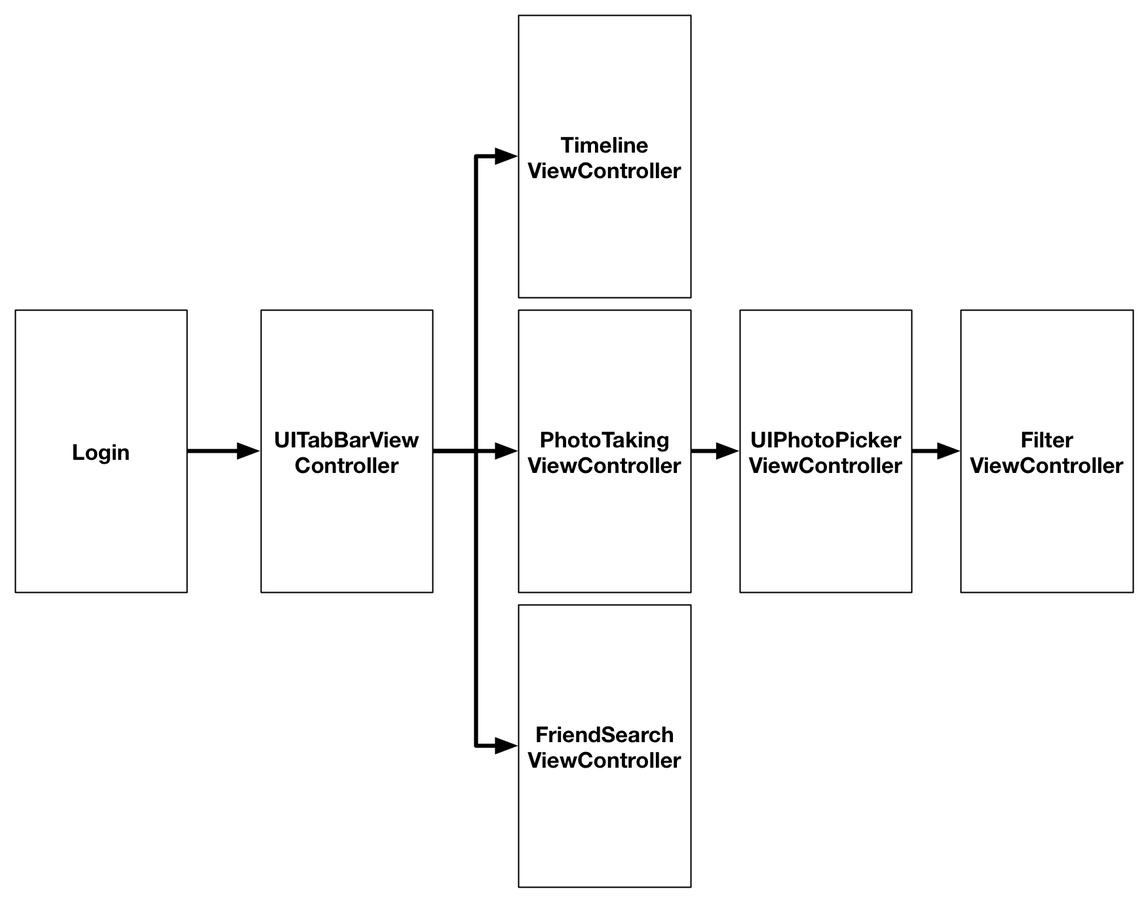
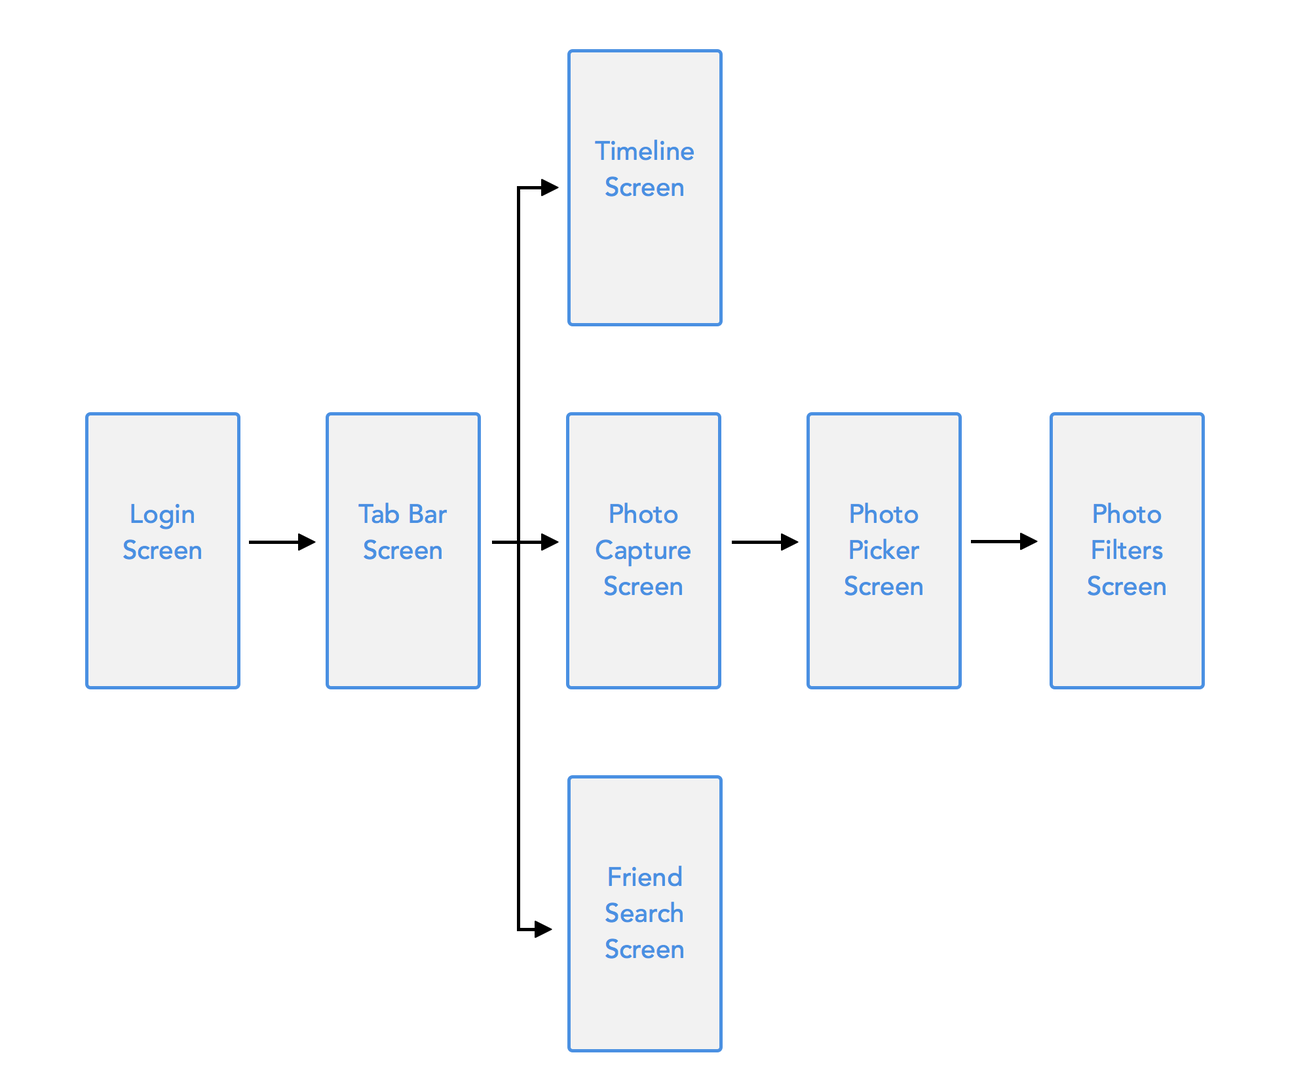
P0 to P6 Curriculum Revisions
* P0 to P5: very minor changes
* P6: moderate changes (moved content around, added content)

Changed region(s): [[0.0616, 0.0312, 1.0, 0.9993], [0.8014, 0.6245, 0.9247, 0.6558]]

diff --git a/P6-Setup-App-Structure/content.md b/P6-Setup-App-Structure/content.md
@@ -1,63 +1,69 @@
 ---
-title: "Setting up the App Structure With a UITabBarController"
+title: "Setting up the App Structure"
 slug: setup-app-structure-uitabbarcontroller
 ---
 
-In this section we're going to set up the basic structure of our app. While building the *Make School Notes* app, you have learnt about *Container View Controllers*.
-
-Just as a short reminder: Container View Controllers are View Controllers that can present other View Controllers. Most apps have at least one such a Container View Controller. In *Make School Notes* we used a `UINavigationController` as container. It allowed us to *push* and *pop* View Controllers.
-
-iOS provides another very popular Container View Controller: the `UITabBarController`. Using a `UINavigationController` the user typically navigates between different View Controllers by selecting items from `UITableView`s, such as Apple's *Mail* app, or as in *Make School Notes*.
-
-Using a `UITabBarController`, the user switches between different View Controllers by selecting one of the Tab Bar Items in a Tab Bar. Below is a screenshot from the finished *Makestagram* app that contains a Tab Bar:
-![image](tab_bar_example.png)
-
-The user can switch between the timeline, taking a photo, or finding friends, by selecting the respective button from the Tab Bar.
-
-Many apps use multiple types of Container View Controllers in one App. We will see how that approach works when we add the image filter feature to the *Makestagram* app later on.
-
-#The App Structure
-
-One of the first steps, once you have collected all the features you want to be part of your app, should be drawing an outline of the different screens that your app will contain. This outline should include connections between the different screens.
-
-For *Makestagram* I've created this overview, that breaks down the entire app into View Controllers:
+Once you have decided on your app's features, your next step should be to outline your apps structure. The outline should contain all the screens in your app, and should include how they will be connected. For **Makestagram**, the outline would look like this:
 
 ![image](app_structure.png)
 
-I highly recommend you come up with a similar diagram before writing code for your original app - it will give you a very good idea of how much effort it will take to build your app. With this overview at hand, let's dive into the action of creating a bunch of these View Controllers.
+You should come up with a similar diagram before writing code for your original app - it will give you a better idea of how much effort it will take to build your app.
 
-#Setting the UITabBarController up
+#Another Container View Controller: The UITabBarController
 
-As mentioned earlier, we will skip the login screen for now. That means that the `UITabBarController` is the first View Controller we need to add to our app. We also want the Tab Bar Controller to be the initial View Controller of our app.
+In this section, we're going to set up the basic structure of our app, starting with a *container view controller*, a view controller that can present other view controllers.
 
-The Xcode project template has a simple `UIViewController` as its initial View Controller.
-Let's first go ahead and delete it.
+In **Make School Notes** we  used a `UINavigationController` as our container view controller, which allowed us to drill down on content by *pushing* and *popping* view controllers.
+
+In **Makestagram**, we will be using another popular container view controller called the `UITabBarController`. The `UITabBarController` contains a *tab bar* and *tab bar items*. Each tab bar item is connected to a specifc view controller, tapping a tab bar item displays the appropriate view controller.  Below is a screenshot from the finished **Makestagram** app that contains a tab bar (the tab bar is enclosed by a red rectangle) and three tab bar items (home, camera, friends):
+
+![image](tab_bar_example.png)
+
+By selecting the appropriate tab bar item, a user can switch between the Timeline Screen, Photo Capture Screen, and Friends Search Screen.
+
+It is common to see multiple types of container view controllers in a single app - we will explore this idea when adding the image filter feature to **Makestagram** later on.
+
+#Setting Up the UITabBarController
+
+Since we won't be adding the login screen until later, the first screen we need to setup is our Tab Bar Screen.
+
+The **Makestagram** project template that you downloaded earlier currently has one screen, a simple `UIViewController`. We don't need that screen, so let's go ahead and delete it.
 
 > [action]
-Open *Main.storyboard*. Select the existing View Controller; after you have selected it you should see a blue border surrounding it:
+Open *Main.storyboard*. Select the existing view controller; after you have selected it you should see a blue border surrounding it:
 ![image](selected_vc.png)
 >
-Hit the *delete* key to remove this View Controller. Now you should see a blank Storyboard:
+Hit the *delete* key to remove this view controller. Now you should see a blank storyboard:
 ![image](blank_storyboard.png)
+
+Let's also delete the screen's accompanying source file called *ViewController.swift*.
+
+
+> [action]
+Delete the *ViewController.swift* file:
+![image](delete_vc.png)
+![image](delete_vc_trash.png)
 
 Now we can add the `UITabBarController`.
 
 > [action]
-Drag the `UITabBarController` from the component library into the Storyboard:
+Drag the `UITabBarController` from the component library into the storyboard:
 ![image](add_tab_bar.png)
 
-Now we have set up the Container View Controller for our app - time to run it?
+We have now set up the container view controller for our app - time to run it?
 
-If you run the app now, you will see a blank, black screen, after the splash image disappears. You will also see the following error in the console:
+If you run the app now, after the splash image disappears, you will see a blank black screen. You will also see the following error in the console:
 
 > Makestagram[76593:9371786] Failed to instantiate the default view controller for UIMainStoryboardFile 'Main' - perhaps the designated entry point is not set?
 
-**Why are you seeing this error?**
+**Why Are We Seeing This Error?**
 
-Every app needs to define an *initial View Controller*. Our app doesn't have one right now - we have deleted the default View Controller, and haven't set the Tab Bar Controller as the initial one. Let's fix that.
+When working with storyboards, we have to designate an entry point, or more simply, we have to tell UIKit (the Apple framwork which handles manipulating the user interface) what view controller should appear first (we call this view controller the *Initial View Controller*). When the compiler doesn't know which view controller to show first (a.k.a. when the entry point is not set), it defaults to showing an empty black screen.
+
+We are seeing this error because the `UIViewController` that we initially deleted from the project was set as the Initial View Controller, and after deleting it, we never set another view controller to be the new Initial View Controller. Let's fix this error by assigning our tab bar controller as the Initial View Controller.
 
 > [action]
-Configure the Tab Bar Controller to be our app's initial View Controller. First select the *Attributes Inspector* in the right bar (1). Then check the *is Initial View Controller* checkbox (2). As a confirmation you should see an arrow pointing to the Tab Bar View Controller (3):
+Configure the tab bar controller to be our app's Initial View Controller. First select the *Attributes Inspector* in the right bar (1). Then check the *is Initial View Controller* checkbox (2). As a confirmation you should see an arrow pointing to the Tab Bar View Controller (3):
 ![image](initial_vc.png)
 
 Great! When you run the app now, you should see a tab bar with two items:
@@ -65,25 +71,25 @@ Great! When you run the app now, you should see a tab bar with two items:
 
 #Adding a Third View Controller to the Tab Bar
 
-The default Tab Bar comes with two View Controllers. Our outline shows that we need three View Controllers in the Tab Bar for *Makestagram*. Let's add that third View Controller.
+The default tab bar comes with two view controllers; however, we need three view controllers for **Makestagram**. Lets add the third view controller now.
 
 > [action]
-Add a third View Controller, as shown in the video below. Note that the key you need to hold down is the *control* key which has the following symbol: ⌃
+Add a third view controller, as shown in the video below. Note that the key you need to hold down is the *control* key which has the following symbol: ⌃
 <video width="100%" controls>
   <source src="https://s3.amazonaws.com/mgwu-misc/SA2015/AddViewController_TabBar_Small.mov" type="video/mp4">
 </video>
 
-Now we have all required View Controllers set up.
+We now have all of the required view controllers set up!
 
 #Decorating the Tab Bar Items
 
-The empty Tab Bar looks pretty sad - let's add an image to each Tab Bar Item. That will also make it easier to identify the different tabs.
-
-Currently the Tab Bar has three entries and looks like this:
+Currently the tab bar has three entries and looks like this:
 
 ![image](tab_bar.png)
 
-Each of these three entries is called a *Tab Bar Item*. Every View Controller that has a relationship to a Tab Bar View Controller owns one such a *Tab Bar Item*. The Tab Bar Items are named rather generically right now (*Item 1*, *Item 2*, etc.). Instead of names, we will use icons to decorate our *Tab Bar Items*.
+<!-- Every View Controller that has a relationship to a Tab Bar View Controller owns one such a *Tab Bar Item*. The Tab Bar Items are named rather generically right now (*Item 1*, *Item 2*, etc.). Instead of names, we will use icons to decorate our *Tab Bar Items*. -->
+
+The empty tab bar looks pretty bad, so let's add an image to each tab bar item to make things look nicer. (Images will also have the benefit of making it easier to identify the different tabs.)
 
 > [action]
 [Download the art pack for this tutorial!](https://s3.amazonaws.com/mgwu-misc/SA2015/Makestagram_Art.zip)
@@ -91,9 +97,10 @@ Each of these three entries is called a *Tab Bar Item*. Every View Controller th
 ##Adding Assets to an App
 
 Now it's time to add some of these assets you just downloaded to our app. All assets used within an iOS app are stored in *Asset catalogs*. Every iOS projects that you create with Xcode comes with one default asset catalog called *Images.xcassets*:
+
 ![image](asset_catalog.png)
 
-That asset catalog contains one resource for the App's icon. You add new resources to your app by creating new entries in this asset catalog. You can also create multiple asset catalogs which is useful for apps with huge amounts of images.
+That asset catalog contains one resource for the App's icon. You add new resources to your app by creating new entries (called *Image Sets*) in this asset catalog. You can also create multiple asset catalogs which is useful for apps with huge amounts of images.
 
 Let's add our first images to our app!
 > [action]
@@ -107,11 +114,11 @@ Repeat these steps for the *Home* and *People* assets, so that all Tab Bar Item 
 
 Let's briefly discuss some important concepts about asset handling on iOS. You probably have realized that we're providing three different image files for each asset we wanted to use in our App (*@1x*, *@2x* and *@3x*). These different images have different resolutions, each suited to a specific type of iOS devices with a different screen resolution. The *@1x* assets are used for the oldest iOS devices, e.g. iPhone 3Gs, which don't have retina displays. The *@2x* images are used for the 3.5 and 4 inch retina screens of the iPhone 4(S) and iPhone 5(S). Finally, the *@3x* images are used by the iPhone 6 and iPhone 6 Plus. In most cases you won't have to spend too much time thinking about this, as long as you provide assets in all relevant resolutions.
 
-You should also note that we don't reference images in asset catalogs by their file name, but instead by the name of the *Image Set* they belong to. In our example our assets are called *Camera*, *People* and *Home*.
+You should also note that we don't reference images in asset catalogs by their file name, but instead by the name of their Image Set. In our example, our image sets are called *camera*, *people* and *home*.
 
 ##Assigning Images to Tab Bar Items
 
-We've added assets to our app; now we can assign them to our Tab Bar Items.
+Now that we have added images to our app, we can assign them to our tab bar items.
 
 When we're done, the Tab Bar should look like this:
 
@@ -126,27 +133,27 @@ Let's set the images up!
 2. Select the View Controller's Tab Bar Item
 3. Open the *Attributes Inspector* in the right panel
 4. Erase the Item *Title*
-5. Set the Item *Image* to *Home*, *Camera* or *People*, depending on which View Controller you are currently setting up
+5. Set the Item *Image* to *home*, *camera* or *people*, depending on which View Controller you are currently setting up
 >
 ![image](setup_tab_bar_item.png)
 
-Now we have images on each Tab Bar item - but something doesn't look quite right. The images aren't vertically centered. That's because iOS reserves some space below the image for the *Title* of the Tab Bar Item. For *Makestagram* we don't need titles, instead we want the images to be centered. We can accomplish that by adjusting the *Image Inset* for each Tab Bar Item.
+Now we have images on each Tab Bar item - but something doesn't look quite right. The images aren't vertically centered. That's because iOS reserves some space below the image for the *Title* of the Tab Bar Item. For **Makestagram** we don't need titles, instead we want the images to be centered. We can accomplish that by adjusting the *Image Inset* for each Tab Bar Item.
 
 > [action]
-**Repeat the following steps for all three View Controllers**:
+**Repeat the following steps for all three view controllers**:
 >
-1. With the Tab Bar Item selected, open the *Size Inspector* on the right panel
+1. With the tab bar item selected, open the *Size Inspector* on the right panel
 2. Set the *Image Insets* as following:
       - *Top*: 5
       - *Bottom*: -5
 >
 ![image](tab_bar_item_insets.png)
 
-Now all of your Tab Bar Items should have images that are nicely centered.
+Now all of your tab bar items should have images that are nicely centered.
 
 ##Reordering Tab Bar Items
 
-Just in case you didn't set up the View Controllers in the correct order, I want to show you how you can reorder them. Select the Tab Bar View Controller in Storyboard, then simply drag the Tab Bar Items to rearrange them:
+Just in case you didn't set up the view controllers in the correct order, I want to show you how you can reorder them. Select the tab bar view controller in your storyboard, then simply drag the tab bar items to rearrange them:
 
 <video width="100%" controls>
   <source src="https://s3.amazonaws.com/mgwu-misc/SA2015/ReorderTabBarItems_small.mov" type="video/mp4">
@@ -156,15 +163,7 @@ Now we have a nice looking Tab Bar that connects to the three View Controllers o
 
 #Creating Classes for our View Controllers
 
-To complete this whole scaffolding section, let's create the Source Code Files for all three View Controllers that we will be working on throughout this tutorial.
-
-As a very first step, let's delete View Controller that is part of the template project:
-> [action]
-Delete the *ViewController.swift* file:
-![image](delete_vc.png)
-![image](delete_vc_trash.png)
-
-Now we can create the three View Controllers for this project. We'll add them to the  *ViewControllers* group to keep this project nicely structured.
+To finish this section, let's create the Source Code Files for all three View Controllers that we will be working on throughout this tutorial. We'll add them to the  *ViewControllers* group to keep this project nicely structured.
 
 > [action]
 Create the `TimelineViewController` class as a subclass of `UIViewController` as shown in the video below:
@@ -194,6 +193,6 @@ The last setup step that remains, is connecting the classes that we just created
 
 #Wrapping up
 
-Now we have set up the basic structure of our App! You should have three Tab Bar Items with Icons, connected to three View Controllers in Storyboard, each backed by a corresponding Source Code file.
+Congratulations! We have now set up the basic structure of **Makestagram**! You should have three tab bar items with icons, connected to three view controllers in your storyboard, each backed by a corresponding Swift file.
 
 We're ready to implement our first Feature: **Uploading photos!**

diff --git a/P5-Connecting-to-Parse/content.md b/P5-Connecting-to-Parse/content.md
@@ -11,7 +11,7 @@ To set up the Parse SDK we will first need to answer the following question: *Wh
 
 #Configuring the SDK on App Launch
 
-Every iOS project gets created with class called `AppDelegate`. This class has multiple methods that get called when our App starts, is put in the background or is closed. Whenever we want to respond to such *lifecycle* events, the `AppDelegate` is the right place to add our code. If you open the *AppDelegate.swift* file, that is part of the *Makestagram* project, you will see the different methods that are part of the `AppDelegate`. Apple also provides some helpful comments about the responsibilities of each method. For now, we are mainly interested in the following method:
+Every iOS project gets created with a class called `AppDelegate`. This class has methods that get called when our app is started, put into the background, or closed. These actions (starting, going into the background, and closing), are referred to as *lifecycle* events.  Whenever we want to respond to such events, the `AppDelegate` is the right place to add our code. If you open the *AppDelegate.swift* file, which is part of the *Makestagram* project, you will see the different lifecycle methods. If you are curious about the responsibilities of each of these methods, checkout this Apple [documentation](https://developer.apple.com/library/ios/documentation/iPhone/Conceptual/iPhoneOSProgrammingGuide/TheAppLifeCycle/TheAppLifeCycle.html). For now, we are mainly interested in the following method:
 
     func application(application: UIApplication, didFinishLaunchingWithOptions launchOptions: [NSObject: AnyObject]?) -> Bool {
       // Override point for customization after application launch.
@@ -19,7 +19,7 @@ Every iOS project gets created with class called `AppDelegate`. This class has m
       return true
     }
 
-This is the method that is called as soon as our App starts. Here we need to add the code to configure the Parse SDK. The SDK can be configured with one simple method call.
+This method is called as soon as our app starts - this is where we need to add the code to configure the Parse SDK. The SDK can be configured with one simple method call.
 
 > [action]
 Add an import statement (`import Parse`) to import the Parse SDK into the `AppDelegate`. Then add a method call to `Parse.setApplicationID` into the `application(application:didFinishLaunchingWithOptions:launchOptions:)` method. The result should look like this:
@@ -65,9 +65,7 @@ Now we should be ready to work with Parse SDK! In a moment we will see if you've
 
 All features in *Makestagram*, e.g. posting photos, following friends, etc. will require a logged in user. This means that before we can start building our actual app, we need a way for a user to log in.
 
-I however don't want to start this tutorial with building a login screen. For now we should provide a fake login mechanism so that we can start working on the core features of the app.
-
-Later in this tutorial we will spend some time building a full login mechanism, including login with a Facebook account.
+For now, we are going to provide a fake login mechanism so that we can start working on the core features of the app. (Later in this tutorial we will spend some time building a full login mechanism, including login with a Facebook account.)
 
 Implementing a fake login mechanism involves two steps:
 
@@ -91,8 +89,8 @@ Extend the `AppDelegate` to log in with our test credentials. We'll also add an 
 >
       PFUser.logInWithUsername("test", password: "test")
 >
-      if let user = PFUser.currentUser() {
-        println("Log in successful")
+      if let currentUser = PFUser.currentUser() {
+        println("\(currentUser.username!) logged in successfully")
       } else {
         println("No logged in user :(")
       }

diff --git a/P2-Data-Model/content.md b/P2-Data-Model/content.md
@@ -19,11 +19,9 @@ This is the detailed list of features our app will have:
 
 You know most of the features from popular social network apps. You might wonder why include *flagging* content in this simple photo sharing app. We include it, because it's an important feature to get your app into Apple's App Store. Apple requires apps with user created content to have a *flag* feature - this way users can report inappropriate content. Since you will likely need this feature in your original app, we have included it as part of the tutorial.
 
-Through building this app you will learn how to use Parse and many iOS features to build a rather complex application. That will enable you to build your own apps when you have completed the tutorial.
-
 #Finding the Classes in Our App
 
-Now that we know which features our app will have, how can we derive a data model?
+Now that we know which features our app will have, how can we build a data model?
 
 Typically the first step in defining a data model is finding different classes that are involved in our features.
 
@@ -75,7 +73,7 @@ The diagram above illustrates the different classes, their most important proper
 Let's discuss them briefly:
 
 - **User**
-A new *User* class is created whenever a user signs up. The *username* will store the user's display name: this name is used to log in and it displayed in the app when the user creates posts or likes other posts.
+A new *User* class is created whenever a user signs up. The *username* will store the user's display name: this name is used to log in and is displayed in the app when the user creates posts or likes other posts.
 
 - **Post**
 A *Post* class is created whenever a user posts a new photo. The most important properties of a post are the *user* it belongs to and the *imageFile* stored along with the post.
@@ -84,7 +82,7 @@ A *Post* class is created whenever a user posts a new photo. The most important 
 Marks which posts have been flagged. It stores a reference to the *post* that is flagged and the *user* that has flagged it.
 
 - **Like**
-Works just as *FlaggedContent*; stores a reference to the *post* that is like and the *user* that has liked it.
+Works just as *FlaggedContent*; stores a reference to the *post* that is liked and the *user* that has liked it.
 
 - **Follow**
 Stores a following relationship between two users. The *toUser* field stores the user being followed, the *fromUser* user field stores the following user.

diff --git a/P0-Getting-Started/content.md b/P0-Getting-Started/content.md
@@ -5,21 +5,19 @@ slug: getting-started
 
 Throughout this tutorial you will build a photo sharing app that is similar to the popular app  [Instagram](https://instagram.com/). After finishing the *Make School Notes* tutorial you should have a good understanding of the basics of iOS development.
 
-In this tutorial we will touch many advanced iOS development topics and you will also learn how to use [Parse](https://parse.com) to build a backend for your app.
+In this tutorial, we will touch many advanced iOS development topics, including how to use [Parse](https://parse.com) to build a backend for your app.
 
 Here are the most important things you will learn throughout this tutorial:
 
-- How to define a data model for your app using Parse
-- How to implement a login for your app using Parse and Facebook
+- How to define a data model using Parse
+- How to implement a login using Parse and Facebook
 - How to capture photos and upload them to Parse
 - How to perform work in the background to keep your user interface responsive
 - How to build complex Parse queries
 - How to structure a complex iOS app
 - How to use libraries built by other developers to speed up development
 
-We will touch many more topics, but this is an outline of the biggest chunks of skills you will gain through this tutorial.
-
-By the end of it you will have a good understanding of building complex iOS apps that tie into a backend - from there you will be able to move on and create your original iPhone App!
+After finishing the tutorial, you will have a good understanding of building complex iOS apps that tie into a backend - from there you will be able to move on and create your original iPhone App!
 
 Here's a video that will give you a brief overview of what you will be learning:
 

diff --git a/P3-Create-Data-Model-Parse/content.md b/P3-Create-Data-Model-Parse/content.md
@@ -16,7 +16,7 @@ First, select the *Add Class* button on the left hand side to create your first 
 >
 ![image](add_class.png)
 
-Next, you will see a popup that allows you to choose the type of your class. 
+Next, you will see a popup that allows you to choose the type of your class.
 
 > [action]
 Select the *User* class from the dropdown and hit *create Class*:
@@ -74,7 +74,7 @@ Now you should see the new *imageFile* column in the data browser:
 
 Now it's time to add the *user* column. Unlike the *imageFile* column the *user* column is not intended to store actual data - instead it stores a reference (or relationship) to an existing *user* object.
 
-For such use cases Parse provides the *Pointer* column type. A pointer column allows us to store a reference to another Parse object.
+For such use cases, Parse provides the *Pointer* column type. A pointer column allows us to store a reference to another Parse object.
 
 > [action]
 Hit the *+Col* button to create a new column, just as in the step before. Then choose this column to be a *Pointer*. Additionally Parse will ask you *which* class this pointer is pointing to. Choose the *_User* class (the underscore in the class name indicates that this class was generated by Parse). Finally, name the column *user* and hit the *Create Column* button:
